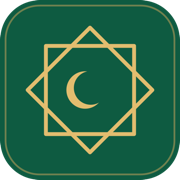
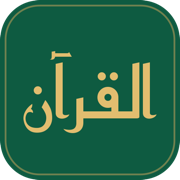
Ganti lambang bintang dengan wordmark Kufi + mode baca
- Logo/ikon: tulisan القرآن gaya Kufi (Reem Kufi OFL, di-outline jadi path SVG)
- Brand topbar pakai webfont Reem Kufi lokal
- Mode baca 'Tanpa terjemahan' di Setelan: Arab saja gaya mushaf; salin ikut mode
- SW cache v7 + precache font baru

Changed region(s): [[0.1111, 0.1389, 0.8889, 0.8611]]

diff --git a/app.js b/app.js
@@ -17,7 +17,7 @@ let last = store.get('last', null);   // {s,n}
 
 /* ---------- helper ---------- */
 const RECITERS = { 'ar.alafasy': 'Mishary Alafasy', 'ar.husary': 'M. Khalil Al-Husary', 'ar.mahermuaiqly': 'Maher Al Muaiqly' };
-const TRANSL = { k: 'Kemenag RI', s: 'Tafsir Assaibiq', b: 'Keduanya' };
+const TRANSL = { n: 'Tanpa terjemahan', k: 'Kemenag RI', s: 'Tafsir Assaibiq', b: 'Keduanya' };
 const FONTS = { amiri: 'Amiri Quran', sakkal: 'Sakkal Majalla' };
 const $surah = n => Q.s[n - 1];
 const $g = (n, v) => $surah(n).f + v - 1;                    // global nomor ayat
@@ -31,6 +31,7 @@ const esc = t => String(t).replace(/[&<>"]/g, c => ({ '&': '&amp;', '<': '&lt;',
 const $text = g => Q.v[g - 1];                               // [ar, kemenag, assaibiq]
 const trOf = (g, i = st.trans === 's' ? 2 : 1) => $text(g)[i];
 function translations(g) {
+  if (st.trans === 'n') return '';
   const [, k, s] = $text(g);
   if (st.trans === 'b') return `<div class="tr">${esc(k)}</div><div class="tr alt">${esc(s)}</div>`;
   return `<div class="tr">${esc(st.trans === 's' ? s : k)}</div>`;
@@ -371,13 +372,13 @@ document.addEventListener('click', e => {
   else if (act === 'play-surah') playSurah(+btn.dataset.n);
   else if (act === 'copy' && btn.dataset.g) {
     const g = +btn.dataset.g, { s, v } = $ref(g), t = $text(g);
-    copyText(`${t[0]}\n\n${st.trans === 's' ? t[2] : t[1]}\n— QS. ${$surah(s).l} [${s}]: ${v}`);
+    copyText(st.trans === 'n' ? `${t[0]}\n— QS. ${$surah(s).l} [${s}]: ${v}` : `${t[0]}\n\n${st.trans === 's' ? t[2] : t[1]}\n— QS. ${$surah(s).l} [${s}]: ${v}`);
     toast('Ayat disalin');
   }
   else if (act === 'copy-surah') {
     const n = +btn.dataset.n, s = $surah(n);
     let txt = `${s.n}. ${s.l} — ${s.m}\n\n`;
-    for (let v = 1; v <= s.c; v++) { const t = $text($g(n, v)); txt += `﴿${v}﴾ ${t[0]}\n${st.trans === 's' ? t[2] : t[1]}\n\n`; }
+    for (let v = 1; v <= s.c; v++) { const t = $text($g(n, v)); txt += `﴿${v}﴾ ${t[0]}${st.trans === 'n' ? '' : `\n${st.trans === 's' ? t[2] : t[1]}`}\n\n`; }
     copyText(txt); toast('Surah disalin');
   }
   else if (act === 'mark') {

diff --git a/styles.css b/styles.css
@@ -5,6 +5,7 @@
   src:local('Sakkal Majalla'),local('Sakkal Majalla Regular'),url(fonts/sakkal-majalla.woff2) format('woff2');}
 @font-face{font-family:'Sakkal Majalla';font-style:normal;font-weight:700;font-display:swap;
   src:local('Sakkal Majalla Bold'),url(fonts/sakkal-majalla.woff2) format('woff2');}
+@font-face{font-family:'Reem Kufi';font-style:normal;font-weight:400 700;font-display:swap;src:url(fonts/reem-kufi-arabic.woff2) format('woff2');}
 @font-face{font-family:'Amiri Quran';font-style:normal;font-weight:400;font-display:swap;src:url(fonts/amiri-quran-arabic.woff2) format('woff2');}
 
 :root{
@@ -40,7 +41,7 @@ svg{width:22px;height:22px;fill:none;stroke:currentColor;stroke-width:1.8;stroke
   padding:10px 16px;background:var(--surface);border-bottom:1px solid var(--border);
 }
 .brand{display:flex;align-items:center;gap:9px;font-weight:700;letter-spacing:.2px}
-.brand .star{width:26px;height:26px;fill:var(--gold);stroke:none;color:var(--gold)}
+.brand-ar{font-family:'Reem Kufi',serif;font-size:1.65rem;line-height:1;color:var(--gold);transform:translateY(2px)}
 .top-actions{display:flex;gap:2px}
 .ghost{border-radius:10px}
 .ghost:hover{background:var(--surface2)}

diff --git a/sw.js b/sw.js
@@ -1,13 +1,13 @@
 /* Quran Offline — service worker: precache shell+data, cache-first untuk audio */
 'use strict';
-const SHELL = 'quran-shell-v6';
+const SHELL = 'quran-shell-v7';
 const AUDIO = 'quran-audio';
 const AUDIO_MAX = 400; // simpan ±400 file mp3 terakhir (LRU)
 
 const ASSETS = [
   './', 'index.html', 'styles.css', 'app.js', 'manifest.webmanifest',
   'data/quran-data.js',
-  'fonts/amiri-arabic-400.woff2', 'fonts/amiri-arabic-700.woff2', 'fonts/amiri-quran-arabic.woff2', 'fonts/sakkal-majalla.woff2',
+  'fonts/amiri-arabic-400.woff2', 'fonts/amiri-arabic-700.woff2', 'fonts/amiri-quran-arabic.woff2', 'fonts/sakkal-majalla.woff2', 'fonts/reem-kufi-arabic.woff2',
   'icons/icon-192.png', 'icons/icon-512.png', 'icons/icon-maskable-512.png', 'icons/apple-touch-icon.png',
 ];
 

diff --git a/index.html b/index.html
@@ -14,9 +14,7 @@
 <body>
 <header class="topbar">
   <a class="brand" href="#/">
-    <svg viewBox="0 0 24 24" class="star" aria-hidden="true">
-      <path d="M12 2.5l2.4 4.5 5-.6-2 4.6 3 4-4.8.8L12 21l-3.6-4.7-4.8-.8 3-4-2-4.6 5 .6z"/>
-    </svg>
+    <span class="brand-ar" aria-hidden="true">القرآن</span>
     <span>Quran&nbsp;Offline</span>
   </a>
   <div class="top-actions">

diff --git a/README.md b/README.md
@@ -7,7 +7,8 @@ tanpa dependensi runtime.
 ## Fitur
 
 - 📖 Teks Uthmani (Quran Uthmani Hafs) + terjemahan **Kemenag RI** & **Tafsir Assaibiq** (bisa pilih / tampilkan keduanya)
-- 🔡 Pilihan font Arab: **Amiri Quran** (gaya mushaf) atau **Sakkal Majalla** (Naskah klasik) — font dibundel lokal
+- 🕌 **Mode baca** — teks Arab saja tanpa terjemahan, gaya mushaf; atau per-ayat dengan terjemahan seperti biasa
+- 🔡 Pilihan font Arab: **Amiri Quran** (gaya mushaf) atau **Sakkal Majalla** (Naskah klasik) — font dibundel lokal; logo & ikon aplikasi memakai tulisan **القرآن** gaya Kufi (Reem Kufi, OFL)
 - 🔎 Pencarian instan ke seluruh ayat (Arab, Latin, arti) + nama surah, dengan highlight
 - ⏯ Audio per-ayat & per-surah (Alafasy, Al-Husary, Maher) — **di-cache otomatis**, setelah diputar sekali bisa offline
 - 🔖 Penanda ayat & posisi baca terakhir — tersimpan di `localStorage`, tetap ada tanpa internet
